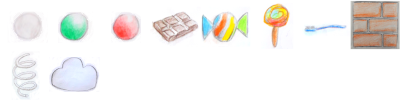
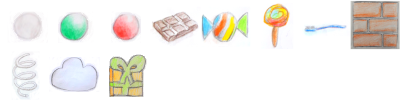
Add  gift support

Changed region(s): [[0.27, 0.54, 0.39, 0.99]]

diff --git a/dentidoo.js b/dentidoo.js
@@ -21,6 +21,7 @@ var BOARD_CANDY = "c";
 var BOARD_CHOCOLATE = "h";
 var BOARD_LOLLIPOP = "l";
 var BOARD_TOOTHBRUSH = "T";
+var BOARD_GIFT = "g";
 
 var Z_SYMBOLS = 0; // background
 var Z_TEETH = 1; // in front of symbols
@@ -94,6 +95,7 @@ Crafty.sprite(
     wall: [7, 0],
     spring: [0, 1],
     cloud: [1, 1],
+    gift: [2, 1],
   }
 );
 Crafty.sprite(
@@ -140,6 +142,20 @@ function pos_y(j) {
 // convert y pixel position to j grid position
 function pos_j(y) {
   return (y - CANVAS_HEADER_HEIGHT) / GRID_SIZE;
+}
+
+// show a message
+function showMessage(aText){
+  Crafty.e("2D, DOM, Text, Keyboard")
+  .attr({
+    x: CANVAS_WIDTH/2 - 150 + 20,
+    y: 300,
+    w: 260,
+  })
+  .textFont({
+    size: "40px",
+  })
+  .text(aText);
 }
 
 // draw header
@@ -309,6 +325,9 @@ function drawBoard() {
         case BOARD_TOOTHBRUSH:
           entities[i][j] = Crafty.e("2D, DOM, toothbrush");
           break;
+        case BOARD_GIFT:
+            entities[i][j] = Crafty.e("2D, DOM, gift");
+            break;
       }
       entities[i][j].attr({
         x: pos_x(i),
@@ -404,6 +423,13 @@ function checkHitSymbols(aToothEntity, destination) {
       toggleComponentAndRememberIt(aToothEntity, "tooth_3", "tooth_2");
     } else if (aToothEntity.has("tooth_4")) {
       toggleComponentAndRememberIt(aToothEntity, "tooth_4", "tooth_3");
+    }
+  } else if (destination.has("gift")){
+    // make the gift disappear, replaced by a gray ball
+    toggleComponentAndRememberIt(destination, "gift", "ball_grey");
+    // Show the gift message, if provided
+    if ("gift" in levels[level]){
+      showMessage(levels[level].gift);
     }
   }
 }
